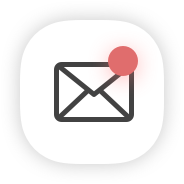
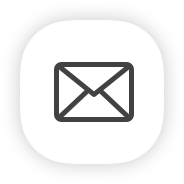
guojie

Changed region(s): [[0.5707, 0.2446, 0.7609, 0.462]]

diff --git a/template/order.html b/template/order.html
@@ -79,6 +79,8 @@
 			window.addEventListener('readData',function(event){
 				var data = event.detail;
 				park_space_id = data.park_space_id;
+				Park_lot_num = ws.parking_lot_num;
+				alert('readData')
 				l_park_lot_num = data.parking_lot_num, l_park_space_id = data.park_space_id, l_p_b_num = data.p_b_num,l_p_b_floor = data.p_b_f,l_p_b_area = data.p_b_area,l_p_s_num=data.p_s_num;
 				token = plus.storage.getItem('token');
 				plus.nativeUI.showWaiting('信息加载中，请稍候...');
@@ -90,14 +92,6 @@
 			window.addEventListener('alr',function(){
 				mui.back();
 			})
-//			window.addEventListener('reload',function(){
-//				token = plus.storage.getItem('token');
-//				plus.nativeUI.showWaiting('信息加载中，请稍候...');
-//				mask.show();//显示遮罩
-//				setTimeout(function(){
-//					load(mui,document,jQuery);
-//				},800);
-//			})
 			mui.plusReady(function(){
 				//获取创建当前窗口的webview对象
 				ws = plus.webview.currentWebview();
@@ -119,6 +113,47 @@
 					},800);
 				};
 			});
+			//获取时间差
+			function GetDateDiff(startTime, endTime, diffType) {
+				  startTime = startTime.replace(/\-/g, "/");
+				  endTime = endTime.replace(/\-/g, "/");
+				  //将计算间隔类型字符串转换为小写
+				  diffType = diffType.toLowerCase();
+				  var sTime = new Date(startTime); //开始时间
+				  var eTime = new Date(endTime); //结束时间
+				  //作为除数的数字
+				  var divNum = 1;
+				  switch (diffType) {
+				    case "second":
+				      divNum = 1000;
+				      break;
+				    case "minute":
+				      divNum = 1000 * 60;
+				      break;
+				    case "hour":
+				      divNum = 1000 * 3600;
+				    case "day":
+				      divNum = 1000 * 3600 * 24;
+				      break;
+				    default:
+				      break;
+				  }
+				  return parseInt((eTime.getTime() - sTime.getTime()) / parseInt(divNum));
+			}
+			//小数乘法浮点数处理
+			function accMul(arg1,arg2){ 
+				var m=0,s1=arg1.toString(),
+				s2=arg2.toString(); 
+				try{
+					m+=s1.split(".")[1].length
+				}catch(e)
+				{}
+				try{
+					m+=s2.split(".")[1].length
+				}catch(e)
+				{}
+				return Number(s1.replace(".",""))*Number(s2.replace(".",""))/Math.pow(10,m)
+			}
 			function load($,doc,$$){
 				$.init();
 				//获取当前时间
@@ -138,47 +173,7 @@
 				var s=myDate.getSeconds();  
 				var now=year+'-'+p(month)+"-"+p(date)+" "+p(h)+':'+p(m)+":"+p(s);
 				var parkPrice = 0;
-				//获取时间差
-				function GetDateDiff(startTime, endTime, diffType) {
-					  startTime = startTime.replace(/\-/g, "/");
-					  endTime = endTime.replace(/\-/g, "/");
-					  //将计算间隔类型字符串转换为小写
-					  diffType = diffType.toLowerCase();
-					  var sTime = new Date(startTime); //开始时间
-					  var eTime = new Date(endTime); //结束时间
-					  //作为除数的数字
-					  var divNum = 1;
-					  switch (diffType) {
-					    case "second":
-					      divNum = 1000;
-					      break;
-					    case "minute":
-					      divNum = 1000 * 60;
-					      break;
-					    case "hour":
-					      divNum = 1000 * 3600;
-					    case "day":
-					      divNum = 1000 * 3600 * 24;
-					      break;
-					    default:
-					      break;
-					  }
-					  return parseInt((eTime.getTime() - sTime.getTime()) / parseInt(divNum));
-				}
-				//小数乘法浮点数处理
-				function accMul(arg1,arg2){ 
-					var m=0,s1=arg1.toString(),
-					s2=arg2.toString(); 
-					try{
-						m+=s1.split(".")[1].length
-					}catch(e)
-					{}
-					try{
-						m+=s2.split(".")[1].length
-					}catch(e)
-					{}
-					return Number(s1.replace(".",""))*Number(s2.replace(".",""))/Math.pow(10,m)
-				}
+				
 				//picker显示时间段的算法
 				
 				//车位信息请求ajax函数
@@ -221,7 +216,17 @@
 									}
 									//固定和无差别车位信息分类显示判断
 									if(type=="choose"){
-										info_ = '<p class="num">车位： <span>'+l_p_b_num+'栋'+l_p_b_floor+'层'+l_p_b_area+'区'+l_p_s_num+'号车位'+'</span></p>';
+										var _floor = '';
+										if(l_p_b_floor[0]=='1'){
+											_floor +='负';	
+										};
+										_floor+=l_p_b_floor[1];
+										if(l_p_b_floor[2]=='1'){
+											_floor +='夹层';	
+										}else{
+											_floor+='层';
+										};
+										info_ = '<p class="num">车位： <span>'+l_p_b_num+'栋'+_floor+l_p_b_area+'区'+l_p_s_num+'号车位'+'</span></p>';
 									}else if(type=="noChoose"){
 										info_ = '<p class="num">车位： <span class="occupied">'+_data.free_number +'</span>/'+_data.number+'</p>';
 									}

diff --git a/js/issue.js b/js/issue.js
@@ -164,6 +164,7 @@ var issue = {
 			} else {
 				var optionsJson = this.getAttribute('data-options') || '{}';
 				var options = JSON.parse(optionsJson);
+				options.beginDate = new Date();
 				_self.picker = new mui.DtPicker(options);
 				_self.picker.show(function(rs) {
 					_self.innerText = rs.text;
@@ -197,6 +198,7 @@ var issue = {
 			} else {
 				var optionsJson = this.getAttribute('data-options') || '{}';
 				var options = JSON.parse(optionsJson);
+				options.beginDate = new Date();
 				_self.picker = new mui.DtPicker(options);
 				_self.picker.show(function(rs) {
 					_self.innerText = rs.text;
@@ -285,6 +287,9 @@ var issue = {
 			var data_start_time = jQuery(".start_time").html();
 			var data_end_time = jQuery(".end_time").html();
 			var id = jQuery(".spaceName").attr('data-id');
+			var dataStartDate = data_start_date+' '+data_start_time;
+			dataStartDate = new Date(dataStartDate.replace(/-/g,"/"));
+			console.log(dataStartDate,'dataStartDate');
 			if(data_start_date=='请选择开始日期'||data_end_date=='请选择结束日期'){
 				mui.alert('请选择预定起始与结束日期','系统提示','确定',null);
 				return false;
@@ -293,10 +298,23 @@ var issue = {
 				mui.alert('请选择预定起始与结束时间','系统提示','确定',null);
 				return false;
 			};
+			console.log(new Date().getTime(),'当前时间')
+			if( (new Date()).getTime() > dataStartDate.getTime()){
+				mui.alert('开始时间不能小于当前时间','系统提示','确定',null);
+				return false;
+			};
+			if(data_start_time > data_end_time){
+				mui.alert('开始时间不能大于结束时间','系统提示','确定',null);
+				return false;
+			};
+			if( (data_end_time.substring(0,2) - data_start_time.substring(0,2))<4 ){
+				mui.alert('开始时间与结束时间必须相隔4小时以上','系统提示','确定',null);
+				return false;
+			};
 			if(mapResult.length==0){
 				mui.alert('请选择每周共享的星期数','系统提示','确定',null);
 				return false;
-			}
+			};
 			var week = mapResult.toString().replace(/,/g, "");
 			var jsonData = {
 				"id":id,

diff --git a/template/parking-spaces.html b/template/parking-spaces.html
@@ -107,19 +107,41 @@
 		$('.space-list').on('click','.toOrder',function(){
 			var p_l_num = this.getAttribute('data-num'),space_id = this.getAttribute('data-id'),p_s_num = this.getAttribute('data-psnum');
 			var order = plus.webview.getWebviewById('order.html');
-			mui.fire(order,'readData',{
-				parking_lot_num:p_l_num,//停车场编号
-				park_space_id:space_id,//车位id
-				p_b_num:ws.p_b_num,//楼栋编号
-				p_b_f:ws.p_b_floor,//楼层编号
-				p_b_area:ws.p_b_area[0],//区域编号
-				p_s_num:p_s_num,
-				isSpaces:true
-			});
-			var Area = plus.webview.getWebviewById('parkingArea.html');
-			var Spaces = plus.webview.getWebviewById('parking-spaces.html');
-			Area.close();
-			Spaces.close();
+			order.close();
+			setTimeout(function(){
+				mui.openWindow('order.html','order.html',{
+					styles:{
+						popGesture: "close",
+						statusbar:{
+							background:"#fff" 
+						}
+					},
+					extras:{
+						parking_lot_num:p_l_num,//停车场编号
+						park_space_id:space_id,//车位id
+						p_b_num:ws.p_b_num,//楼栋编号
+						p_b_f:ws.p_b_floor,//楼层编号
+						p_b_area:ws.p_b_area[0],//区域编号
+						p_s_num:p_s_num,
+						isSpaces:true
+					}
+				});
+			},500);
+			setTimeout(function(){
+				var Area = plus.webview.getWebviewById('parkingArea.html');
+				var Spaces = plus.webview.getWebviewById('parking-spaces.html');
+				Area.close();
+				Spaces.close();
+			},1000);
+//			mui.fire(order,'readData',{
+//				parking_lot_num:p_l_num,//停车场编号
+//				park_space_id:space_id,//车位id
+//				p_b_num:ws.p_b_num,//楼栋编号
+//				p_b_f:ws.p_b_floor,//楼层编号
+//				p_b_area:ws.p_b_area[0],//区域编号
+//				p_s_num:p_s_num,
+//				isSpaces:true
+//			});
 //			var order = plus.webview.getWebviewById('order.html');
 //			mui.fire(order,'reload');
 		})

diff --git a/template/setting.html b/template/setting.html
@@ -90,7 +90,7 @@
 			<button type="button" class="mui-btn mui-btn-primary" id="notice">发送通知</button>
 		</div>-->
 		<!--<div class="paytest">
-			<button type="button" class="mui-btn mui-btn-primary" id="openPayView">打开支付页面</button>
+			<button type="button" class="mui-btn mui-btn-primary" id="openPayView">打开网络页面</button>
 		</div>-->
 	</div>
     <script src="../js/mui.min.js"></script>
@@ -121,16 +121,36 @@
     	mui('.g-content').on('tap','#openPayView',function(){
     		var options = {
 				styles:{
-					popGesture: "close",
-					statusbar:{
-						background:"#fff" 
+					titleNView:{
+						buttons:[
+							{
+								color:'#292929',
+								colorPressed:'#292929',
+								float:'left',
+								text:'关闭',
+								fontSize:'16px'
+							}
+						],
+						backgroundColor:'#f7f7f7',
+						titleText:'测试网络页面',
+						splitLine: {
+							color: '#cccccc'
+						}
+					},
+					popGesture:'none',
+					backButtonAutoControl:'none',
+					additionalHttpHeaders:{
+						"Referer":"http://www.ecosysnet.com/"
 					}
 				},
-				extras:{
-					order_sn:"20180710151304801"
+				show:{
+					event:'loaded'
+				},
+				waiting:{
+					autoShow:false
 				}
 			};
-			mui.openWindow("orderPay.html","orderPay.html",options);
+			mui.openWindow("https://www.baidu.com/","https://www.baidu.com/",options);
     	});
     	mui('.g-content').on('tap','.logout',function(){
     		var _this = this;

diff --git a/template/home_toolbar.html b/template/home_toolbar.html
@@ -18,7 +18,7 @@
 </head>
 <body>
 	<div id="toolbar">
-		<span id="news"><img src="../img/user-msg.png"/></span>
+		<span id="news"><img id="newsImg" src="../img/user-msg.png"/></span>
 		<span id="search"><img src="../img/search-icon.png"/></span>
 		<span id="list"><img src="../img/parking-list.png"/></span>
 		<span id="location"><img src="../img/user-location.png"/></span>
@@ -29,6 +29,12 @@
     	mui.plusReady(function(){
     		ws = plus.webview.currentWebview();
     		wo = ws.opener();
+    	});
+    	window.addEventListener('upDataState',function(event){
+    		var data = event.detail;
+    		if(data.state=='newmsg'){ //有未读消息
+    			document.getElementById('newsImg').src = '../img/user-msgActive.png';
+    		};
     	});
     	mui('#toolbar').on('tap','span',function(){
     		var id = this.id;

diff --git a/template/issue.html b/template/issue.html
@@ -40,9 +40,9 @@
 	        	<div class="row mui-clearfix">
 	        		<span class="title mui-pull-left">发布时段:</span>
 	        		<div class="mui-pull-left time_box">
-	        			<span class="start_time with_circle">选择开始时间</span>
+	        			<span class="start_time with_circle">请选择开始时间</span>
 		        		<span>至</span>
-		        		<span class="end_time with_circle">选择结束时间</span>
+		        		<span class="end_time with_circle">请选择结束时间</span>
 	        		</div>
 	        	</div>
 	        </div>

diff --git a/template/message.html b/template/message.html
@@ -15,8 +15,8 @@
 			<a class="mui-action-back  mui-pull-left back"><span class="mui-icon mui-icon-arrowleft" style="font-size: 35px; padding-top: 3px;color:#292929;"></span></a>
 		    <h1 class="mui-title">我的消息</h1>
 		</header>
-		<div class="mui-content box">
-			<div  v-show="items.length!=0">
+		<div class="mui-content g-content box" v-cloak>
+			<div v-show="items.length!=0">
 				<div class="list"  v-for="(item,index) in items">
 					<div class="time">{{item.created_at}}</div>
 					<div class="mui-card">

diff --git a/template/my.html b/template/my.html
@@ -115,6 +115,12 @@
 							if(res.code==200){
 								//获取未读条数
 								that.t_num = res.data;
+								if(that.t_num!=0&&that.t_num){
+									var tb = plus.webview.getWebviewById('home_toolbar.html');
+									mui.fire(tb,'upDataState',{
+										state:'newmsg'
+									});
+								};
 							}else if(res.code==509){
 								plus.storage.setItem('token',res.data.newToken);
 								that.getUnreadMessage();

diff --git a/template/parking.html b/template/parking.html
@@ -20,7 +20,7 @@
 		<div id="topbar">
 			<div id="search-box">
 				<div class="mui-input-row mui-search mui-active">
-				    <input type="search" class="mui-input-clear" v-model="keywords" @input="getParking()" placeholder="">
+				    <input type="search" v-model="keywords" @input="getParking()" placeholder="">
 				</div>
 			</div>
 			<div class="filter">

diff --git a/js/index.js b/js/index.js
@@ -359,6 +359,9 @@ var home = {
 					mui.fire(_this.homeAccount,'updata',{
 						latest:_this.latest
 					});
+					setTimeout(function(){
+						_this.blockLatest();
+					},10000);
 				}else{
 					mui.alert(res.msg,'系统提示','确定',null);
 				};

diff --git a/css/app.css b/css/app.css
@@ -68,6 +68,8 @@ input[type=search] {
 	line-height: 46px;
 	font-size: 19px;
 	color: #292929;
+	left:70px !important;
+	right:70px !important;
 }
 .mui-action-back {
 	color:#292929;

diff --git a/css/message.css b/css/message.css
@@ -1,3 +1,6 @@
+.g-content {
+	overflow-y:auto;
+}
 .mui-bar {
 	background-color: #fff;
 }
